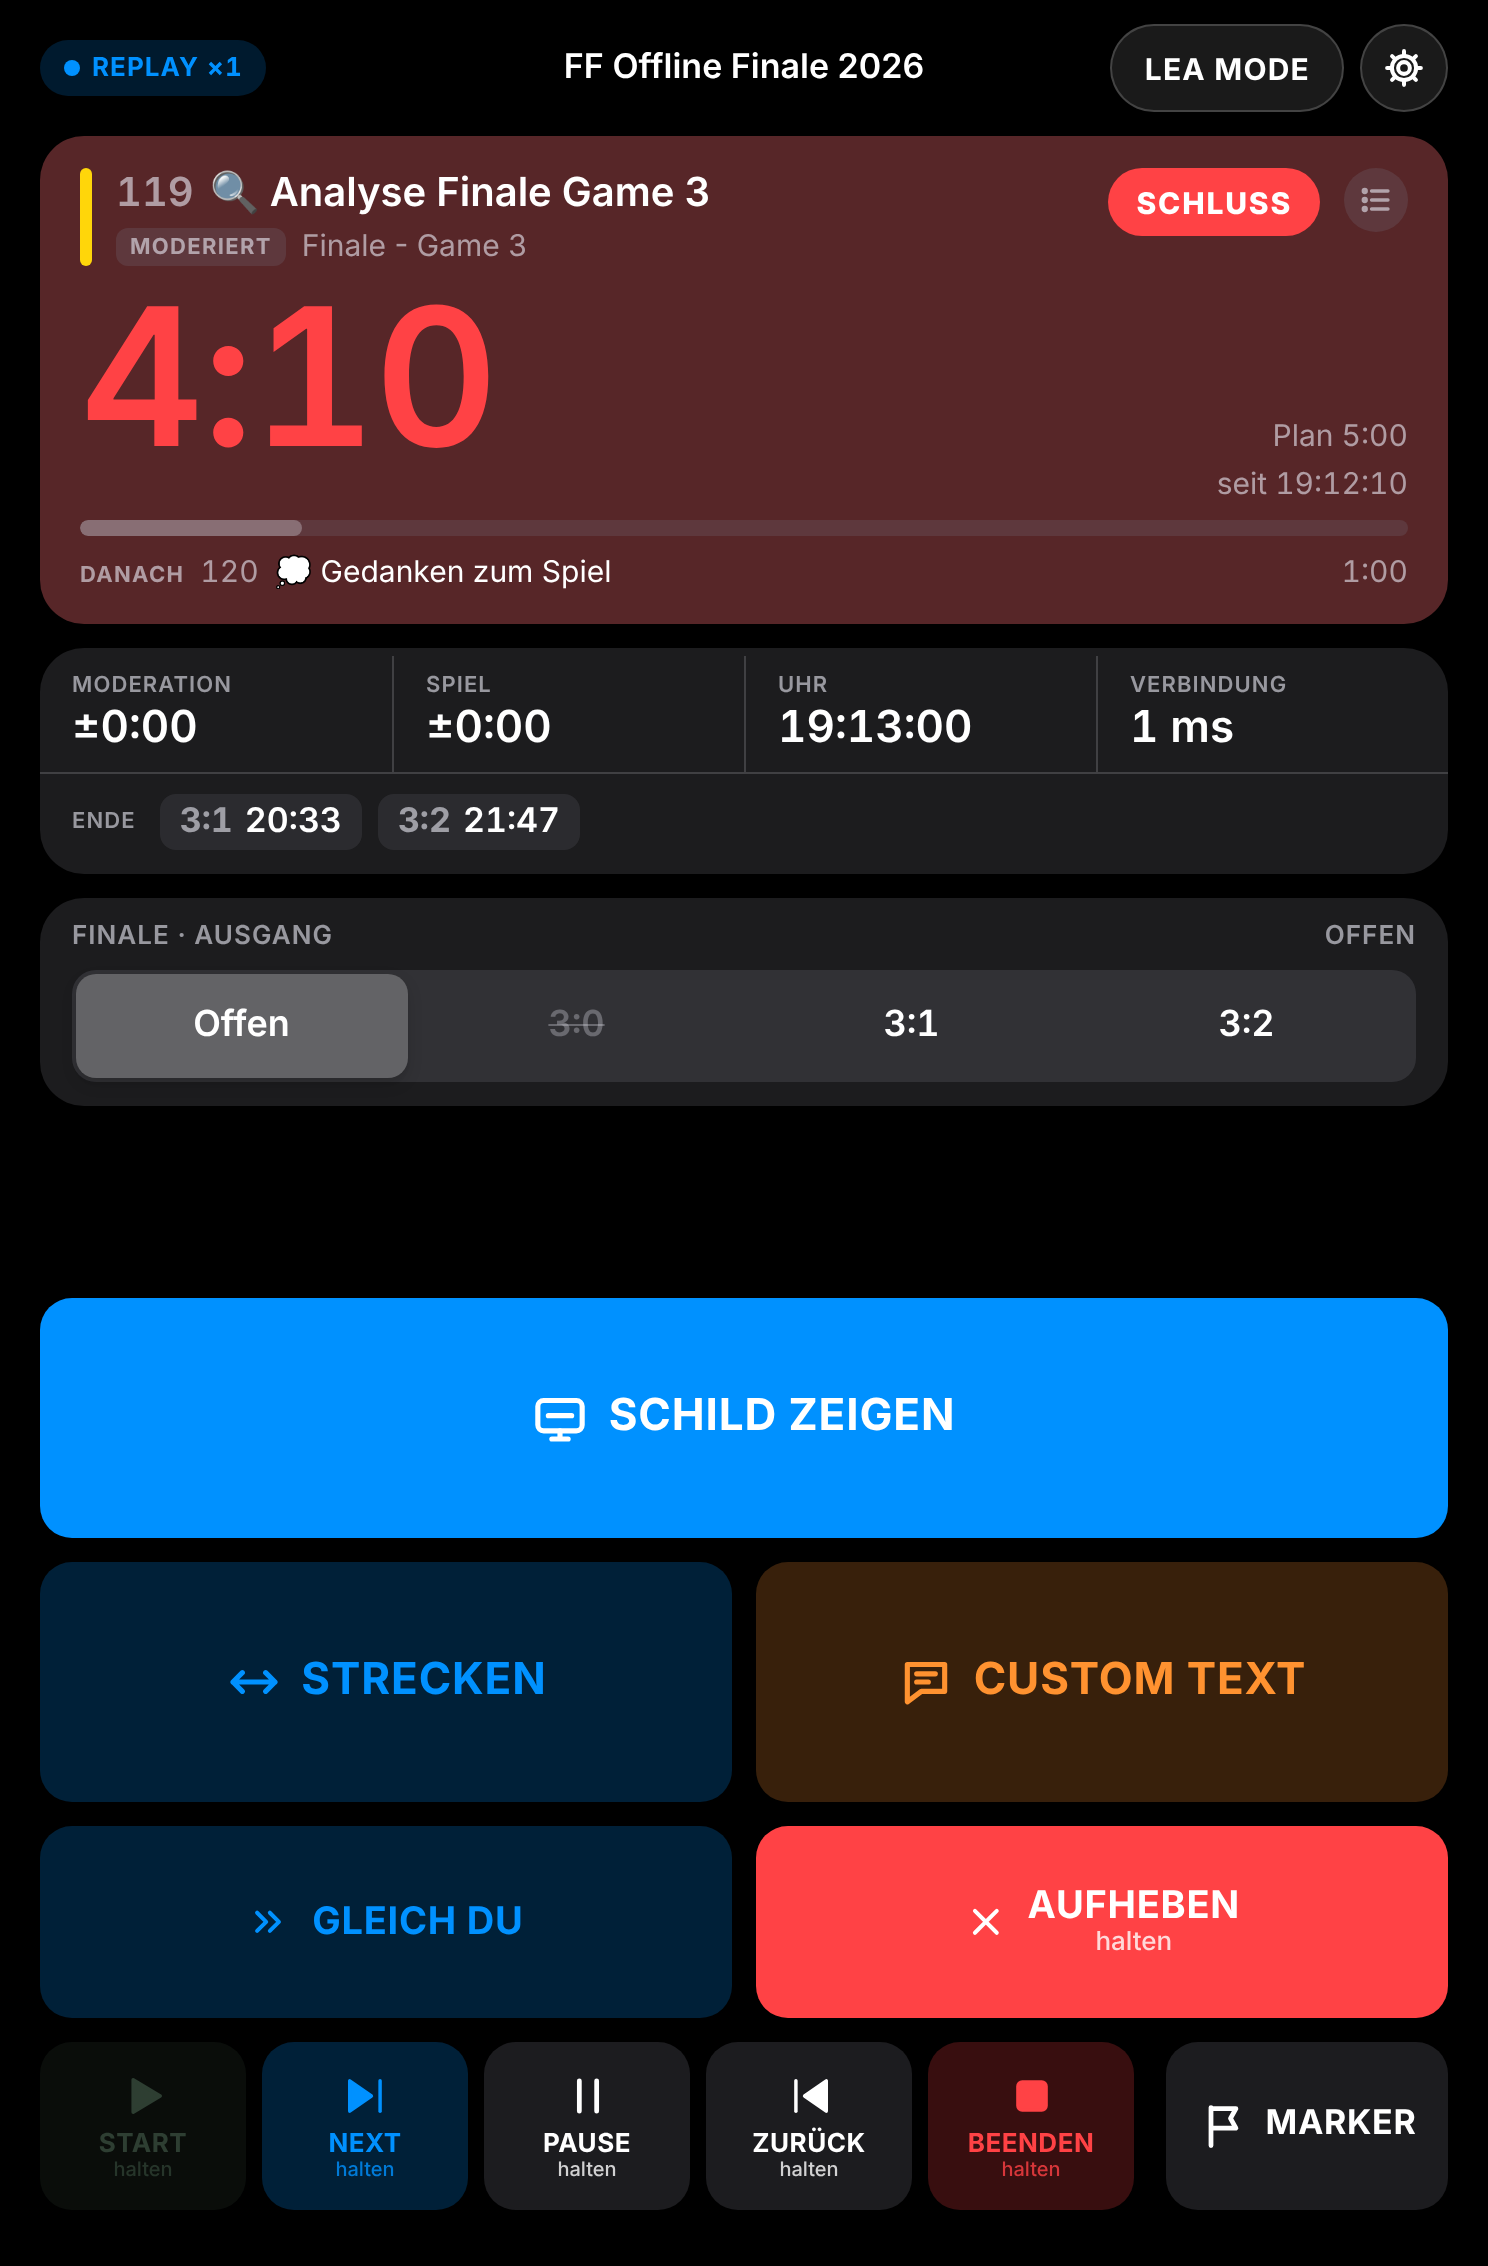
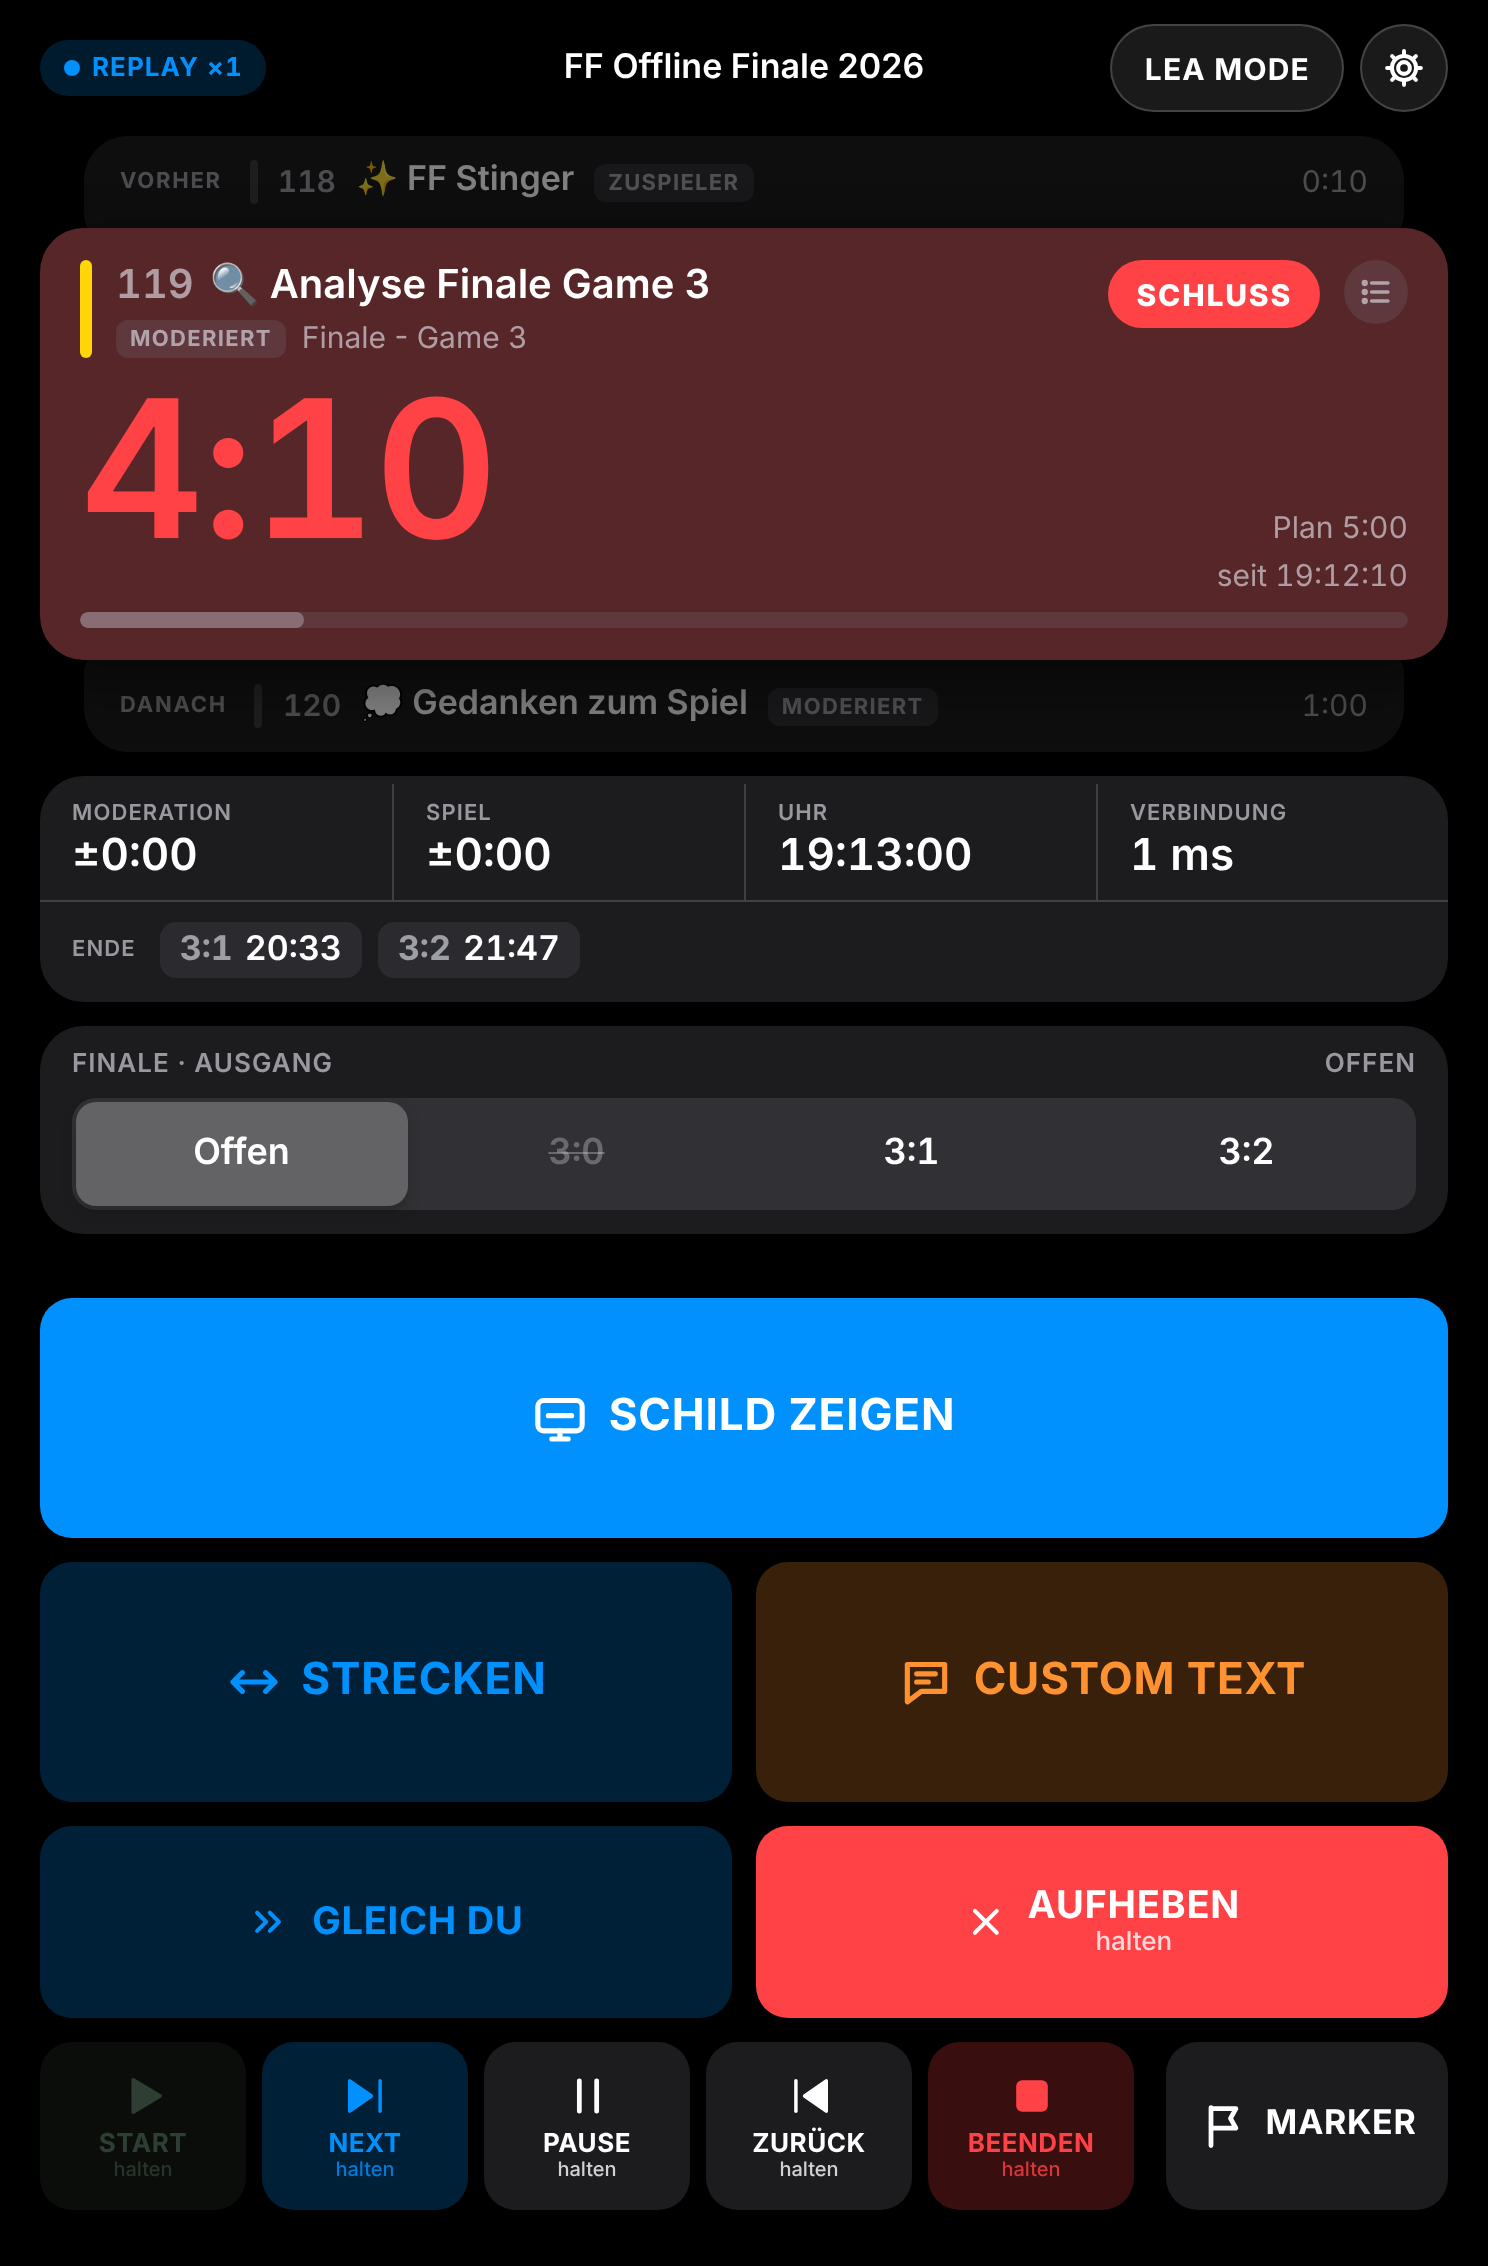
Bedienansicht: Cue-Stapel wie in der Regie
- Vorheriger und nächster Cue halbtransparent hinter dem aktuellen, auch in
  der AL-Ansicht (hoch, quer, Griffhand links); Danach-Zeile im Kasten entfällt
- Ohne beobachteten Vorgänger zeigt der Stapel den Cue davor laut Plan
- Screenshots neu, Version 1.7.1

Claude-Session: https://claude.ai/code/session_01Pd9BMgvoYiwa5gziSvDGUD

Changed region(s): [[0.0, 0.0618, 0.9892, 0.556]]

diff --git a/public/css/app.css b/public/css/app.css
@@ -1100,8 +1100,8 @@ dialog.text-sheet {
   height: 100%;
   display: grid;
   grid-template-columns: minmax(0, 1fr);
-  grid-template-rows: auto auto auto minmax(0, 1fr) auto;
-  grid-template-areas: 'nav' 'now' 'status' 'context' 'controls';
+  grid-template-rows: auto auto auto auto auto minmax(0, 1fr) auto;
+  grid-template-areas: 'nav' 'peekprev' 'now' 'peeknext' 'status' 'context' 'controls';
   gap: var(--gap);
   padding: max(env(safe-area-inset-top), 12px) max(env(safe-area-inset-right), var(--margin)) max(env(safe-area-inset-bottom), 16px)
     max(env(safe-area-inset-left), var(--margin));
@@ -1542,10 +1542,12 @@ svg.i.solid {
 @media (orientation: landscape) {
   .op {
     grid-template-columns: minmax(0, 1.1fr) minmax(0, 1fr);
-    grid-template-rows: auto auto auto minmax(0, 1fr);
+    grid-template-rows: auto auto auto auto auto minmax(0, 1fr);
     grid-template-areas:
       'nav nav'
+      'peekprev controls'
       'now controls'
+      'peeknext controls'
       'status controls'
       'context controls';
   }
@@ -1553,7 +1555,9 @@ svg.i.solid {
     grid-template-columns: minmax(0, 1fr) minmax(0, 1.1fr);
     grid-template-areas:
       'nav nav'
+      'controls peekprev'
       'controls now'
+      'controls peeknext'
       'controls status'
       'controls context';
   }
@@ -2138,12 +2142,13 @@ dialog.rundown-sheet {
   margin-top: calc(-1 * var(--gap) - 14px);
   padding-top: 26px;
 }
-.op[data-readonly] .now {
+.op .now {
   position: relative;
   z-index: 1;
   box-shadow: 0 10px 30px rgb(0 0 0 / 0.45);
 }
-.op[data-readonly] .now-foot {
+/* Die Danach-Zeile im Kasten entfällt: der nächste Cue steht als Karte darunter */
+.op .now-foot {
   display: none;
 }
 .peek-label {

diff --git a/public/js/views/operator.js b/public/js/views/operator.js
@@ -90,11 +90,12 @@ export class OperatorView {
       this.el.context.appendChild(d);
       this.ctx[k] = d;
     }
+    // Vorheriger und nächster Cue als Karten hinter dem aktuellen (AL und Regie)
+    this.el.peekPrev.hidden = false;
+    this.el.peekNext.hidden = false;
     if (o.readonly) {
-      // Regieansicht: nur Strecken, Rundown-Steuerung und Marker; vorheriger/nächster Cue als Karten
+      // Regieansicht: nur Strecken, Rundown-Steuerung und Marker
       r.dataset.readonly = '';
-      this.el.peekPrev.hidden = false;
-      this.el.peekNext.hidden = false;
     }
     this.signals = {};
     this.bind();
@@ -224,7 +225,7 @@ export class OperatorView {
 
     // ---- Steuerung
     this.renderControls(vm, meta);
-    if (this.readonly) this.renderPeeks(vm, meta);
+    this.renderPeeks(vm, meta);
   }
 
   renderBalance(el, ms) {
@@ -351,7 +352,7 @@ export class OperatorView {
     setHtml(this.ctx.notes, notes.length ? `<div class="card ctx-card"><div class="ctx-title"><span>Notizen</span></div>${notes.join('')}</div>` : '');
   }
 
-  /** Regie: vorheriger und nächster Cue halbtransparent hinter dem aktuellen. */
+  /** Vorheriger und nächster Cue halbtransparent hinter dem aktuellen. */
   renderPeeks(vm, meta) {
     const st = vm.state;
     const tz = meta.timeZone;

diff --git a/server/relay.js b/server/relay.js
@@ -562,6 +562,12 @@ export class Relay extends EventEmitter {
         prev = { ...publicCue(c), startedAt: s, actualMs: actual, stretchMs: st, deltaMs: actual == null ? null : actual - c.durationMs - st };
         break;
       }
+      // Noch nichts beobachtet (z. B. Relay mitten in der Show gestartet): Cue davor laut Plan
+      if (!prev && cue && cue.index > 0) {
+        const c = rd.cues[cue.index - 1];
+        const actual = c.actualDurationMs ?? null;
+        prev = { ...publicCue(c), startedAt: null, actualMs: actual, stretchMs: 0, deltaMs: actual == null ? null : actual - c.durationMs };
+      }
     }
     const elapsed = cue ? elapsedFor({ startedAt }, now, this.st.pausedAt) : 0;
     const effective = cue ? cue.durationMs + stretchMs : 0;

diff --git a/public/sw.js b/public/sw.js
@@ -1,5 +1,5 @@
 // Service Worker: App-Hülle offline verfügbar, API und WebSocket nie aus dem Cache.
-const VERSION = 'al-1.7.0';
+const VERSION = 'al-1.7.1';
 const SHELL = [
   '/',
   '/index.html',

diff --git a/README.md b/README.md
@@ -2,7 +2,7 @@
 
 Web-App (PWA) für die Aufnahmeleitung auf dem **iPad mini (6./7. Gen.)**. Die AL steht neben der Kamera, liest den aktuellen Cue aus dem Rundown und zeigt dem Moderator auf einem großen Schild, wie viel Zeit er noch hat.
 
-- **Hochkant:** Bedienansicht. Oben stehen aktueller Cue, Restzeit, nächster Cue, Salden und Back-Time, unten die Buttons in der Daumenzone.
+- **Hochkant:** Bedienansicht. Oben steht der aktuelle Cue mit Restzeit, halbtransparent dahinter der vorherige (mit Ist-Dauer) und der nächste Cue, darunter Salden und Back-Time, unten die Buttons in der Daumenzone.
 - **Quer:** Schild für den Moderator. Die Restzeit ist so groß wie möglich: grün, gelb mit Rahmen bei den Warnstufen, orange mit FERTIG WERDEN in den letzten 10 s und rot pulsierend beim Überziehen. Auf Knopfdruck zeigt es zusätzlich einen eigenen Text, auf Wunsch mit GIF.
 - **Relay-Server:** pollt die Rundown-API, hält eine gemeinsame Uhr und verteilt den Zustand per WebSocket an alle Geräte.
 
@@ -95,7 +95,7 @@ Am Set braucht das iPad Internet. Fällt es aus, zählt das Schild weiter, und n
 
 ### Regieansicht (`/regie`)
 
-Der aktuelle Cue ist das Hauptelement. Darüber liegt halbtransparent der vorherige Cue (Start, Ist-Dauer, Abweichung), darunter der nächste (Dauer, ggf. SPRUNG). Unten gibt es STRECKEN und die Reihe START · NEXT · PAUSE · ZURÜCK · BEENDEN (jeweils halten) · MARKER. Schild, Custom Text, GLEICH DU, SCHLUSS und die Szenario-Wahl bleiben der AL vorbehalten.
+Wie in der Bedienansicht ist der aktuelle Cue das Hauptelement. Darüber liegt halbtransparent der vorherige Cue (Start, Ist-Dauer, Abweichung), darunter der nächste (Dauer, ggf. SPRUNG). Unten gibt es STRECKEN und die Reihe START · NEXT · PAUSE · ZURÜCK · BEENDEN (jeweils halten) · MARKER. Schild, Custom Text, GLEICH DU, SCHLUSS und die Szenario-Wahl bleiben der AL vorbehalten.
 
 ![Regie](docs/screenshots/regie-hoch.png)
 
